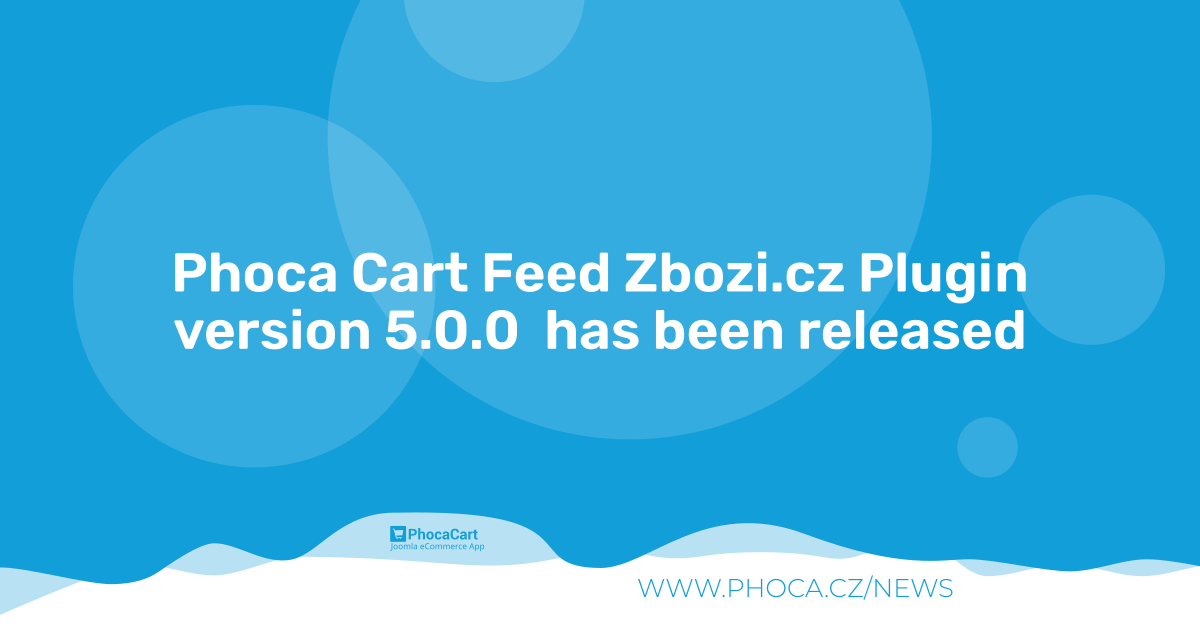
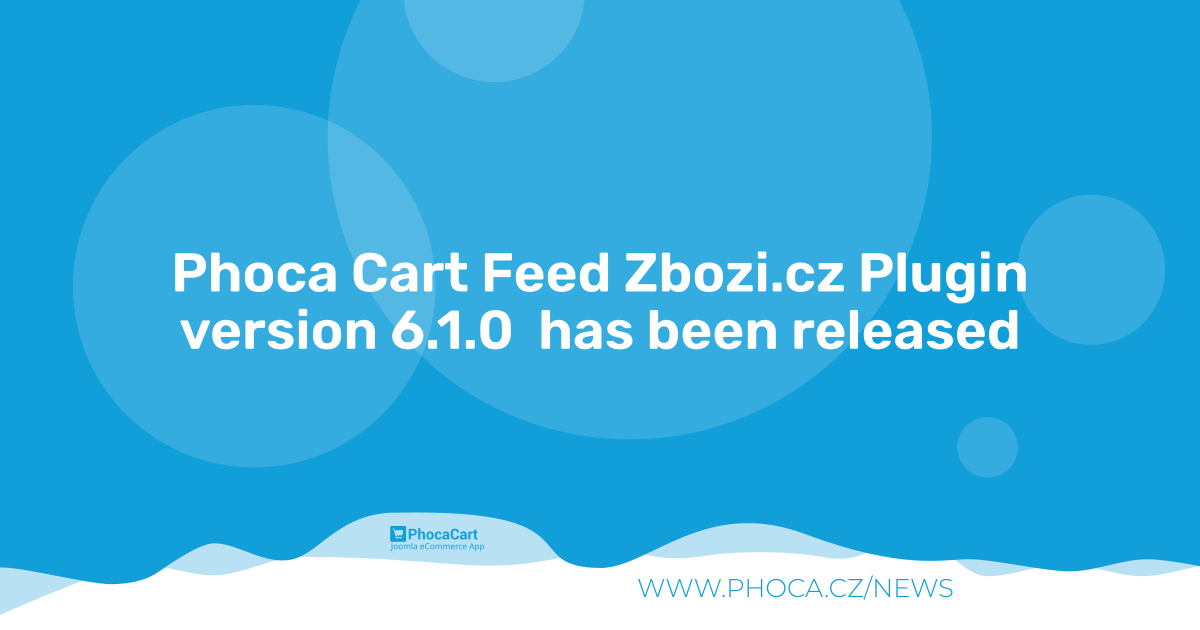
6.1.0

Changed region(s): [[0.1233, 0.4825, 0.8633, 0.573]]

diff --git a/zbozi_cz.php b/zbozi_cz.php
@@ -12,6 +12,14 @@ use Joomla\CMS\Plugin\CMSPlugin;
 
 defined('_JEXEC') or die;
 
+if (file_exists(JPATH_ADMINISTRATOR . '/components/com_phocacart/libraries/bootstrap.php')) {
+    // Joomla 5 and newer
+    require_once(JPATH_ADMINISTRATOR . '/components/com_phocacart/libraries/bootstrap.php');
+} else {
+    // Joomla 4
+    JLoader::registerPrefix('Phocacart', JPATH_ADMINISTRATOR . '/components/com_phocacart/libraries/phocacart');
+}
+
 class plgPCFZbozi_cz extends CMSPlugin
 {
 	function __construct(& $subject, $config) {
